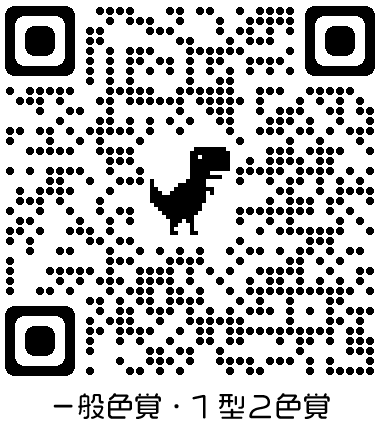
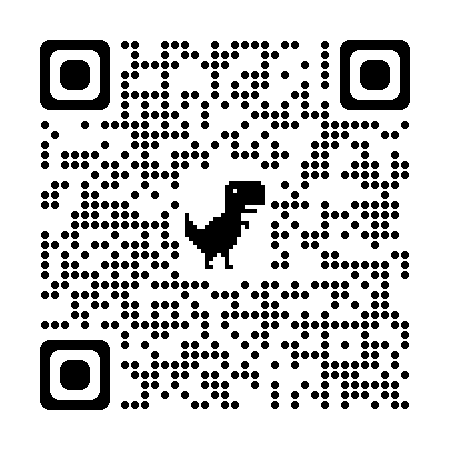
qr画像更新。

diff --git a/toppage/Ver.camera/app0.html b/toppage/Ver.camera/app0.html
@@ -2,7 +2,7 @@
 <html lang="ja">
 <head>
     <meta charset="UTF-8" />
-    <title>色覚シュミレーター</title>
+    <title>色覚シミュレーター</title>
     <link rel="stylesheet" href="app0.css">
 </head>
 
@@ -20,7 +20,7 @@
 
     
     <div class="QR">
-        <img src="app1_qr2.png" alt="QRコード画像">
+        <img src="app1_qr.png" alt="QRコード画像">
     </div>
 
     <div class="yomitori">
